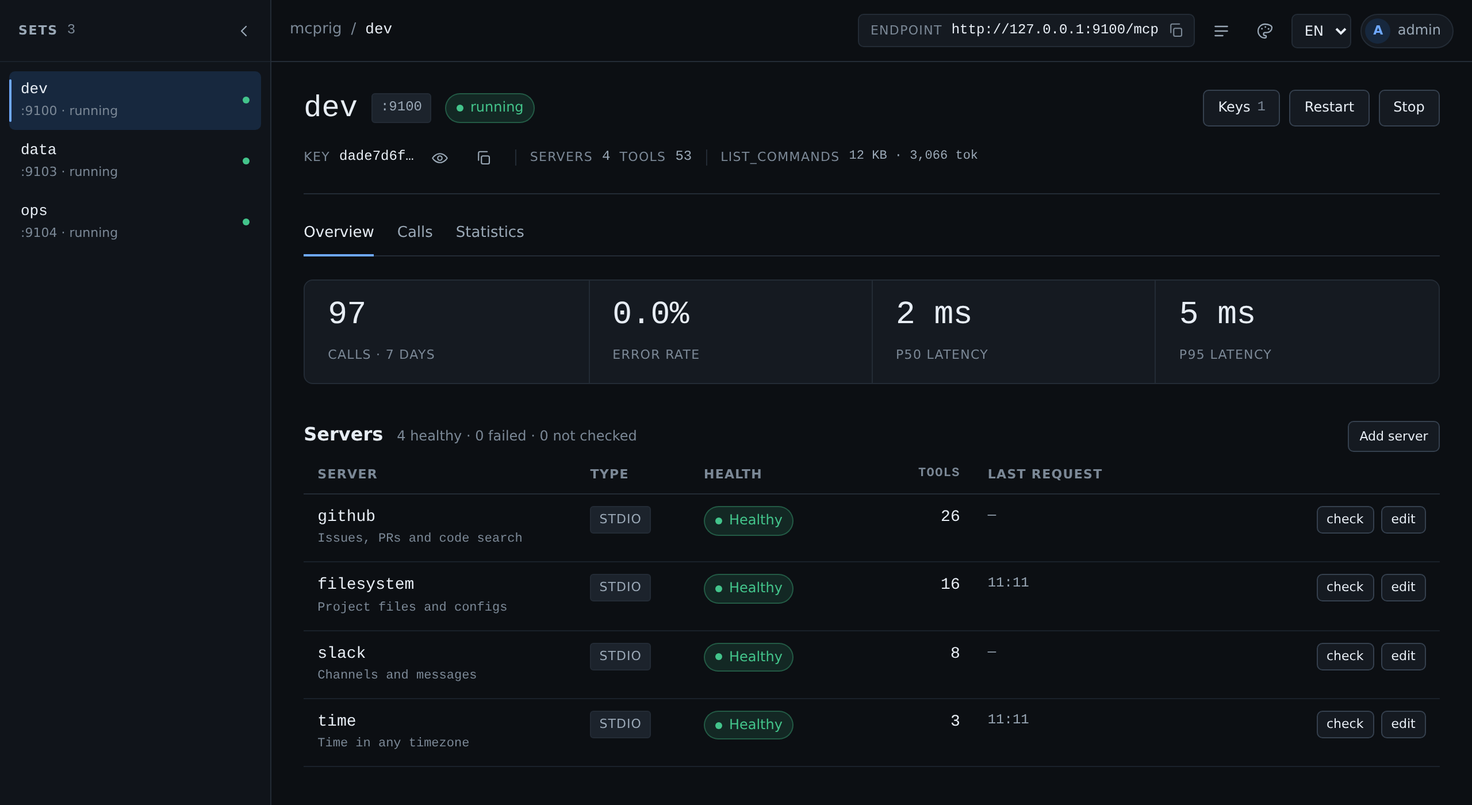
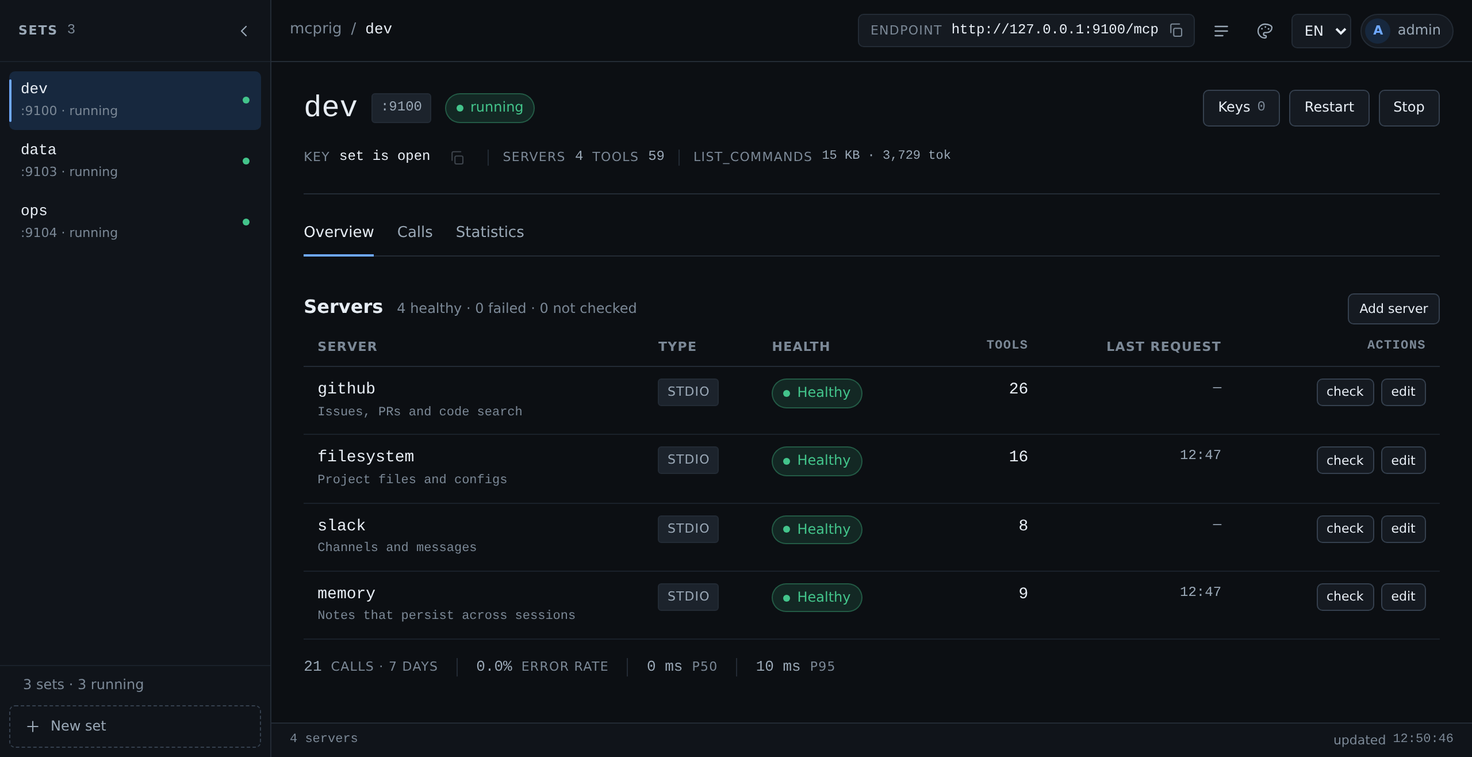
panel: обзор начинается с серверов, сводка ушла под таблицу
- вкладка Overview начинается с таблицы серверов; сводка за 7 дней
  (вызовы, ошибки, p50, p95) стала строкой-подписью под ней, вместо
  четырёх крупных KPI-плиток;
- рельс наборов заканчивается итогом `N sets · K running`;
- у колонки действий появился заголовок Actions;
- копирование ключа берёт префикс из данных, а не текст поля, так что
  в буфер больше не попадает многоточие;
- кнопка «показать ключ» убрана: панель не хранит полный ключ и обработчика
  у неё не было; иконка копии гаснет, когда ключа нет;
- кадр README переснят с живой панели (2560×1316), README и обе подписи
  не менялись.

diff --git a/web/app.js b/web/app.js
@@ -26,7 +26,6 @@
       'top.lang': 'Language',
       'top.theme': 'Color scheme',
       'top.updatedLabel': 'updated',
-      'top.runningW': 'running',
       'rail.title': 'Sets',
       'rail.open': 'Open the set list',
       'rail.collapse': 'Collapse the set list',
@@ -37,6 +36,7 @@
       'rail.port': 'port',
       'rail.create': 'create',
       'rail.item': '{name} · port {port} · {state}',
+      'rail.sum': '{n} {setsW} · {r} running',
       'common.cancel': 'cancel',
       'common.save': 'save',
       'common.close': 'close',
@@ -50,7 +50,6 @@
       'head.copied': 'copied',
       'head.copyFail': 'failed',
       'head.key': 'Key',
-      'head.keyTip': 'only the prefix is shown',
       'head.keyOpen': 'set is open',
       'head.copyKey': 'Copy key',
       'head.noKey': 'no key',
@@ -70,8 +69,8 @@
       'tabs.stats': 'Statistics',
       'kpi.calls': 'calls · 7 days',
       'kpi.errRate': 'error rate',
-      'kpi.p50': 'p50 latency',
-      'kpi.p95': 'p95 latency',
+      'kpi.p50': 'p50',
+      'kpi.p95': 'p95',
       'setSrv.title': 'Servers',
       'setSrv.add': 'Add server',
       'setSrv.note': '{h} healthy · {f} failed · {u} not checked',
@@ -237,7 +236,6 @@
       'top.lang': 'Язык',
       'top.theme': 'Цветовая схема',
       'top.updatedLabel': 'обновлено',
-      'top.runningW': 'запущено',
       'rail.title': 'Наборы',
       'rail.open': 'Открыть список наборов',
       'rail.collapse': 'Свернуть список наборов',
@@ -248,6 +246,7 @@
       'rail.port': 'порт',
       'rail.create': 'создать',
       'rail.item': '{name} · порт {port} · {state}',
+      'rail.sum': '{n} {setsW} · запущено {r}',
       'common.cancel': 'отмена',
       'common.save': 'сохранить',
       'common.close': 'закрыть',
@@ -261,7 +260,6 @@
       'head.copied': 'скопировано',
       'head.copyFail': 'не удалось',
       'head.key': 'Ключ',
-      'head.keyTip': 'показывается только префикс',
       'head.keyOpen': 'набор открыт',
       'head.copyKey': 'Скопировать ключ',
       'head.noKey': 'ключа нет',
@@ -280,9 +278,9 @@
       'tabs.calls': 'Вызовы',
       'tabs.stats': 'Статистика',
       'kpi.calls': 'вызовов · 7 дней',
-      'kpi.errRate': 'доля ошибок',
-      'kpi.p50': 'задержка p50',
-      'kpi.p95': 'задержка p95',
+      'kpi.errRate': 'ошибок',
+      'kpi.p50': 'p50',
+      'kpi.p95': 'p95',
       'setSrv.title': 'Серверы',
       'setSrv.add': 'Добавить сервер',
       'setSrv.note': 'здоровых {h} · со сбоем {f} · без проверки {u}',
@@ -988,15 +986,10 @@
     }).catch(function (e) { fail(e.message, e); });
   }
 
-  // Шапка метрик не несёт: счётчики хоста живут в статусбаре, как в макете.
+  // Шапка метрик не несёт: наборы и запущенные — в рейле, серверы реестра — в статусбаре.
   function renderChrome() {
-    var running = st.sets.filter(function (s) { return s.runtime && s.runtime.running; }).length;
     var none = st.sets.length === 0;
-    $('status-counts').textContent = [
-      fmtN(st.sets.length) + ' ' + word(st.sets.length, 'set'),
-      fmtN(st.servers.length) + ' ' + word(st.servers.length, 'server'),
-      fmtN(running) + ' ' + t('top.runningW')
-    ].join(' · ');
+    $('status-counts').textContent = fmtN(st.servers.length) + ' ' + word(st.servers.length, 'server');
     $('f-updated').textContent = clock();
     $('rail-count').textContent = fmtN(st.sets.length);
     show($('empty-state'), none);
@@ -1037,6 +1030,11 @@
           : state.cls === 'err' ? ' state-failed' : ' state-stopped');
         b.setAttribute('aria-label', t('rail.item', { name: name, port: s.port, state: state.text }));
       });
+    var running = st.sets.filter(function (s) { return s.runtime && s.runtime.running; }).length;
+    $('rail-sum').textContent = t('rail.sum', {
+      n: fmtN(st.sets.length), setsW: word(st.sets.length, 'set'), r: fmtN(running)
+    });
+    show($('rail-sum'), st.sets.length > 0);
   }
 
   function healthy(h) { return !!(h && h.healthy === true && !h.unknown); }
@@ -1245,6 +1243,12 @@
     // только префикс: токена в панели нет и быть не может
     $('key').textContent = set.keyPrefix ? set.keyPrefix + '…'
       : (set.open ? t('head.keyOpen') : t('head.noKey'));
+    // «копировать» работает только когда есть что копировать:
+    // у открытого набора в #key лежит фраза состояния, а не ключ
+    var keyBtn = $('key-copy'), hasKey = !!set.keyPrefix;
+    keyBtn.disabled = !hasKey;
+    keyBtn.dataset.i18nTitle = hasKey ? 'head.copyKey' : 'head.noKey';
+    keyBtn.title = t(keyBtn.dataset.i18nTitle);
     $('keys-count').textContent = fmtN((set.keys || []).length);
     $('meta-servers').textContent = fmtN((set.servers || []).length);
     var schema = (st.calls && st.calls.schema) || null;
@@ -2462,11 +2466,12 @@
 
   var copyTimer = 0;
   function copyText(text, btn, label) {
-    var back = label || btn.textContent;
+    var back = label || btn.innerHTML;
     var done = function (ok) {
       btn.textContent = ok ? t('head.copied') : t('head.copyFail');
       clearTimeout(copyTimer);
-      copyTimer = setTimeout(function () { btn.textContent = back; }, 1200);
+      // кнопки здесь иконочные: текст возвращается разметкой, а не строкой
+      copyTimer = setTimeout(function () { btn.innerHTML = back; }, 1200);
     };
     if (navigator.clipboard && navigator.clipboard.writeText) {
       navigator.clipboard.writeText(text).then(function () { done(true); }, function () { done(false); });
@@ -2479,10 +2484,10 @@
     copyText($('endpoint').textContent, this);
   });
 
-  // токена в панели нет: копировать можно только префикс, и это честно подписано
+  // токена в панели нет: копируется префикс, без многоточия — так его и вставляют
   $('key-copy').addEventListener('click', function () {
-    var text = $('key').textContent || '';
-    if (!text || text === '—') { return; }
+    var set = current(), text = (set && set.keyPrefix) || '';
+    if (!text) { return; }
     copyText(text, this);
   });
 

diff --git a/web/app.css b/web/app.css
@@ -178,6 +178,11 @@ html.rail-compact .rail-collapse { transform: rotate(180deg); }
 .state-failed { color: var(--err); }
 
 .rail-foot { margin-top: auto; padding: var(--sp-2); border-top: 1px solid var(--line-soft); }
+/* итог списка над «Новым набором»: рейл не обрывается пустотой после трёх строк */
+.rail-sum {
+  padding: 0 var(--sp-3); margin-bottom: var(--sp-2);
+  font-size: var(--fs-2); color: var(--text-mute);
+}
 .rail-add {
   display: flex; align-items: center; gap: var(--sp-2); width: 100%;
   padding: 9px var(--sp-3); border: 1px dashed var(--line-strong);
@@ -193,6 +198,7 @@ html.rail-compact .rail-collapse { transform: rotate(180deg); }
 html.rail-compact .rail-head { padding: 0 var(--sp-2); justify-content: center; }
 html.rail-compact .rail-title,
 html.rail-compact .rail-count,
+html.rail-compact .rail-sum,
 html.rail-compact .rail-add-txt { display: none; }
 html.rail-compact .rail-collapse { margin-left: 0; }
 html.rail-compact .rail-sets { padding: var(--sp-2) 6px; }
@@ -348,19 +354,18 @@ html.rail-compact .rail-add { justify-content: center; padding: 9px 0; }
   height: 2px; background: var(--accent);
 }
 
-/* ── KPI-полоса ─────────────────────────────────────────────────────────── */
+/* ── KPI: сводка за 7 дней — строка-подпись, не главный элемент вкладки ──── */
+/* Таблица уже закрыта своей линией: своей у сводки нет, иначе две hairline */
 .kpis {
-  display: grid; grid-template-columns: repeat(4, minmax(0, 1fr));
-  margin-top: var(--sp-5);
-  border: 1px solid var(--line); border-radius: var(--r-3); background: var(--surface);
-  overflow: hidden;
+  display: flex; flex-wrap: wrap; align-items: baseline;
+  gap: var(--sp-1) var(--sp-4);
+  margin-top: var(--sp-4);
 }
-.kpi { padding: var(--sp-4) var(--sp-5); }
-.kpi + .kpi { border-left: 1px solid var(--line); }
-.kpi-num { font: 500 clamp(20px, 2.2vw, 30px) / 1.1 var(--font-mono); letter-spacing: -.01em; }
+.kpi { display: inline-flex; align-items: baseline; gap: var(--sp-2); }
+.kpi + .kpi { padding-left: var(--sp-4); border-left: 1px solid var(--line); }
+.kpi-num { font: 500 var(--fs-3) / 1 var(--font-mono); color: var(--text-dim); }
 .kpi-num.is-muted { color: var(--text-mute); }
 .kpi-label {
-  display: block; margin-top: var(--sp-2);
   font-size: var(--fs-1); text-transform: uppercase; letter-spacing: .06em; color: var(--text-mute);
 }
 
@@ -421,6 +426,9 @@ html.rail-compact .rail-add { justify-content: center; padding: 9px 0; }
   transition: background var(--dur-1) linear, color var(--dur-1) linear;
 }
 .ghost-icon:hover { background: var(--surface-2); color: var(--text); }
+/* иконочные кнопки тоже гаснут: у ключа их две, и обе бессмысленны без ключа */
+.ghost-icon:disabled { opacity: .35; cursor: default; }
+.ghost-icon:disabled:hover { background: transparent; color: inherit; }
 .ghost-icon[aria-pressed="true"] { color: var(--accent); }
 
 /* ── таблицы: моноширинные цифры, имена переносятся, не режутся ─────────── */
@@ -764,11 +772,9 @@ body.side-open .scrim { opacity: 1; pointer-events: auto; }
   .meta-sep { display: none; }
   .set-meta { gap: var(--sp-1) var(--sp-2); }
 
-  .kpis { grid-template-columns: repeat(2, minmax(0, 1fr)); }
-  .kpi { padding: var(--sp-3); }
-  .kpi:nth-child(odd) { border-left: 0; }
-  .kpi:nth-child(n + 3) { border-top: 1px solid var(--line); }
-  .kpi-num { font-size: var(--fs-6); }
+  /* сводка — обычная строка, на узком экране просто переносится */
+  .kpis { margin-top: var(--sp-4); gap: var(--sp-2) var(--sp-3); }
+  .kpi + .kpi { padding-left: var(--sp-3); }
 
   .filters { gap: var(--sp-2); }
   .segmented { width: 100%; }
@@ -812,12 +818,22 @@ body.side-open .scrim { opacity: 1; pointer-events: auto; }
 .label-ok { color: var(--ok); }
 
 /* Колонки таблицы набора: имя забирает остаток, остальные — своя ширина,
-   иначе на пустых «—» имя утаскивает всю середину и соседи липнут к правому краю. */
+   иначе на пустых «—» имя утаскивает всю середину и соседи липнут к правому краю.
+   Действия — по содержимому: широкая колонка отрывала кнопки от «последнего вызова». */
 #set-srv-table { table-layout: fixed; }
 #set-srv-table th { white-space: normal; }
-#set-srv-table th:nth-child(1) { width: 24%; }
+#set-srv-table th:nth-child(1) { width: 30%; }
 #set-srv-table th:nth-child(2) { width: 10%; }
 #set-srv-table th:nth-child(3) { width: 14%; }
 #set-srv-table th:nth-child(4) { width: 11%; }
-#set-srv-table th:nth-child(5) { width: 17%; }
-#set-srv-table th:nth-child(6) { width: 24%; text-align: right; }
+#set-srv-table th:nth-child(5) { width: 17%; text-align: right; }
+#set-srv-table td:nth-child(5) { text-align: right; }
+/* Действия — узкая колонка у правого края: «check/edit» стоят рядом с последним
+   вызовом, а не висят в пустой полосе. По-русски «проверить/изменить» шире,
+   поэтому на узком экране колонке отдаётся четверть ширины таблицы. */
+#set-srv-table th:nth-child(6) { width: 18%; text-align: right; }
+@media (max-width: 1100px) {
+  #set-srv-table th:nth-child(1) { width: 23%; }
+  #set-srv-table th:nth-child(6) { width: 26%; }
+  #set-srv-table .cell-actions .btn { padding-inline: 8px; }
+}

diff --git a/web/index.html b/web/index.html
@@ -27,6 +27,7 @@
     <nav class="rail-sets" id="rail-sets" aria-label="Set list" data-i18n-aria="rail.title"></nav>
     <p class="rail-empty" id="rail-empty" hidden data-i18n="rail.empty">no sets</p>
     <div class="rail-foot">
+      <p class="rail-sum" id="rail-sum" hidden></p>
       <button class="rail-add" type="button" id="add-toggle">
         <svg class="od-icon ico-15" viewBox="0 0 24 24" fill="none" stroke="currentColor" stroke-width="1.7" stroke-linecap="round" aria-hidden="true"><path d="M12 5v14M5 12h14"/></svg>
         <span class="rail-add-txt" data-i18n="rail.add">New set</span>
@@ -139,9 +140,6 @@
         <div class="set-meta">
           <span class="meta-label" data-i18n="head.key">Key</span>
           <code class="mono key-val" id="key">—</code>
-          <button class="ghost-icon" type="button" id="key-open" aria-pressed="false" aria-label="Reveal key" data-i18n-title="head.keyTip" data-i18n-aria="head.keyOpen">
-            <svg class="od-icon ico-15" viewBox="0 0 24 24" fill="none" stroke="currentColor" stroke-width="1.7" stroke-linecap="round" stroke-linejoin="round" aria-hidden="true"><path d="M1.8 12S5.5 5.8 12 5.8 22.2 12 22.2 12 18.5 18.2 12 18.2 1.8 12 1.8 12Z"/><circle cx="12" cy="12" r="3"/></svg>
-          </button>
           <button class="ghost-icon" type="button" id="key-copy" aria-label="Copy key" data-i18n-title="head.copyKey" data-i18n-aria="head.copyKey">
             <svg class="od-icon ico-15" viewBox="0 0 24 24" fill="none" stroke="currentColor" stroke-width="1.7" stroke-linecap="round" stroke-linejoin="round" aria-hidden="true"><rect x="9" y="9" width="11" height="11" rx="2"/><path d="M5 15V5a2 2 0 0 1 2-2h10"/></svg>
           </button>
@@ -164,25 +162,6 @@
       </div>
 
       <section id="tab-overview" role="tabpanel" aria-labelledby="tabbtn-overview" tabindex="0">
-        <div class="kpis" id="kpis">
-          <div class="kpi od-stat">
-            <span class="kpi-num mono" id="k-calls">—</span>
-            <span class="kpi-label" data-i18n="kpi.calls">calls</span>
-          </div>
-          <div class="kpi od-stat">
-            <span class="kpi-num mono" id="k-err">—</span>
-            <span class="kpi-label" data-i18n="kpi.errRate">error rate</span>
-          </div>
-          <div class="kpi od-stat">
-            <span class="kpi-num mono" id="k-p50">—</span>
-            <span class="kpi-label" data-i18n="kpi.p50">p50 latency</span>
-          </div>
-          <div class="kpi od-stat">
-            <span class="kpi-num mono" id="k-p95">—</span>
-            <span class="kpi-label" data-i18n="kpi.p95">p95 latency</span>
-          </div>
-        </div>
-
         <section class="block" id="set-srv-block" aria-labelledby="set-srv-h">
           <div class="block-head">
             <h2 id="set-srv-h" data-i18n="setSrv.title">Servers</h2>
@@ -197,7 +176,7 @@
                 <th scope="col" data-i18n="setSrv.thState">State</th>
                 <th scope="col" class="num" data-i18n="setSrv.thTools">Tools</th>
                 <th scope="col" class="hide-sm" data-i18n="setSrv.thLast">Last request</th>
-                <th scope="col" class="num"><span class="sr" data-i18n="setSrv.thAct">Actions</span></th>
+                <th scope="col" class="num" data-i18n="setSrv.thAct">Actions</th>
               </tr>
             </thead>
             <tbody id="set-srv-body"></tbody>
@@ -207,6 +186,26 @@
             <p class="empty-text" data-i18n="setSrv.emptyText">Servers live in the host registry; attach one to give this set tools to serve.</p>
           </div>
         </section>
+
+        <!-- сводка за 7 дней: второстепенная, строкой под таблицей серверов -->
+        <div class="kpis" id="kpis">
+          <div class="kpi od-stat">
+            <span class="kpi-num mono" id="k-calls">—</span>
+            <span class="kpi-label" data-i18n="kpi.calls">calls</span>
+          </div>
+          <div class="kpi od-stat">
+            <span class="kpi-num mono" id="k-err">—</span>
+            <span class="kpi-label" data-i18n="kpi.errRate">error rate</span>
+          </div>
+          <div class="kpi od-stat">
+            <span class="kpi-num mono" id="k-p50">—</span>
+            <span class="kpi-label" data-i18n="kpi.p50">p50</span>
+          </div>
+          <div class="kpi od-stat">
+            <span class="kpi-num mono" id="k-p95">—</span>
+            <span class="kpi-label" data-i18n="kpi.p95">p95</span>
+          </div>
+        </div>
       </section>
 
       <section id="tab-calls" role="tabpanel" aria-labelledby="tabbtn-calls" tabindex="0" hidden>

diff --git a/docs/ru/panel.md b/docs/ru/panel.md
@@ -20,7 +20,7 @@
 | левый рельс | все наборы как имя плюс `:порт · состояние` и точка состояния; **+ Новый набор** |
 | шапка набора | имя, чип порта, бейдж состояния, **Ключи**, **Перезапустить**, **Запустить/Остановить**, префикс ключа и сразу под ним — число серверов и инструментов плюс вес `list_commands` (объём, токены) |
 | вкладки | **Обзор**, **Вызовы**, **Статистика** |
-| KPI | вызовы, доля ошибок, p50 и p95 выбранного набора за последние 7 дней |
+| KPI | вызовы, доля ошибок, p50 и p95 выбранного набора за последние 7 дней — строкой-сводкой под таблицей серверов |
 | серверы набора | имя со второй строкой (ошибка демона, изоляция, описание), тип, здоровье, число инструментов, последний вызов, **Проверить** и **Изменить** |
 | таблица вызовов | время, сервер, инструмент, клиент, миллисекунды, статус; поиск и **только ошибки**. Сюда попадают и мета-инструменты (`list_servers`, `list_commands`, `describe_commands`) — с сервером `mcprig`; у провала рядом со статусом видна причина, полный текст — во всплывающей подсказке |
 | ящик деталей | реестр серверов хоста, переменные и лог набора; открывается из шапки, на телефоне занимает всю ширину |

diff --git a/design/ui/note.md b/design/ui/note.md
@@ -8,7 +8,7 @@
 | --- | --- |
 | `index.html` | главный экран: топбар, рейл наборов, KPI, таблица наборов, таблица вызовов, правая колонка, статус-строка |
 | `states.html` | три состояния: пусто, набор остановлен, плотная таблица 40 строк |
-| `panel.png` | скриншот `index.html` при 1440×1000 |
+| `panel.png` | скриншот настоящей панели (`web/`), тёмная тема, 1280×658 при ×2; макет, снятый при 1440×1000, — `archive/panel-0.4.x.png` |
 | `states.png` | скриншот `states.html` |
 
 Что взято в реализацию этапа 5:
@@ -16,7 +16,7 @@
 - структура правой колонки — серверы набора с транспортом и последней ошибкой, переменные с
   источником (`openbao`/`file`/`env`), хвост лога;
 - статус-строка с версией, размером бинаря, RSS, uptime и версией протокола;
-- ключ показывается только префиксом, полное значение — по кнопке «показать» (в движке: значение
-  отдаётся один раз при создании ключа, потом только префикс).
+- ключ показывается только префиксом (в движке: значение отдаётся один раз при создании ключа,
+  потом только префикс; кнопки «показать» в панели нет — в макете она была).
 
 Что макет не решает: реальные данные, поведение фильтров и сортировок, мобильная ширина.

diff --git a/CHANGELOG.ru.md b/CHANGELOG.ru.md
@@ -12,6 +12,13 @@
 
 ### Изменено
 
+- Вкладка **Обзор** в панели теперь начинается с серверов набора: сводка за
+  семь дней (вызовы, доля ошибок, p50, p95) ушла под таблицу серверов и стала
+  строкой-подписью, рельс наборов заканчивается строкой `N наборов · K
+  запущено`, у колонки действий появился заголовок `Действия`. Кнопка
+  **Скопировать ключ** недоступна, пока набор открыт и префикса ключа нет;
+  копирует она сам префикс, а не показанное в панели `префикс…`, а
+  неработавшая кнопка **Показать ключ** убрана.
 - Документация перестроена: `docs/en/index.md` и `docs/ru/index.md` — точки
   входа, на каждой продуктовой странице есть переключатель языка и блок
   «См. также», а планы, решения, аудиты, предложения и TS-контракт переехали в

diff --git a/docs/en/panel.md b/docs/en/panel.md
@@ -20,7 +20,7 @@ CSP: no inline scripts or styles.
 | left rail | all sets as name plus `:port · state` and a state dot; **+ New set** |
 | set head | name, port chip, state badge, **Keys**, **Restart**, **Start/Stop**, the key prefix and — right under it — the number of servers and tools plus the `list_commands` weight (bytes, tokens) |
 | tabs | **Overview**, **Calls**, **Statistics** |
-| KPIs | calls, error rate, p50 and p95 of the selected set over the last 7 days |
+| KPIs | calls, error rate, p50 and p95 of the selected set over the last 7 days, as a one-line summary under the servers table |
 | servers of the set | name with a second line (daemon error, isolation, description), type, health, tool count, last request, **Check** and **Edit** |
 | calls table | time, server, tool, client, milliseconds, status; search box and **errors only**. Meta-tools (`list_servers`, `list_commands`, `describe_commands`) appear here too, as server `mcprig`; a failure shows its reason next to the status, the full text in a tooltip |
 | details drawer | host registry, variables and the set log; opens from the header and covers the panel width on a phone |

diff --git a/CHANGELOG.md b/CHANGELOG.md
@@ -10,6 +10,12 @@ repository the project is built in.
 
 ### Changed
 
+- The panel's **Overview** tab now leads with the set's servers: the seven-day
+  summary (calls, error rate, p50, p95) moved below the servers table and reads
+  as a one-line caption, the set rail ends with `N sets · K running`, and the
+  action column has an `Actions` header. **Copy key** is disabled while the set
+  is open and has no key prefix, it copies the bare prefix rather than the
+  `prefix…` shown in the panel, and the unused **Reveal key** button is gone.
 - Documentation is restructured: `docs/en/index.md` and `docs/ru/index.md` are
   the entry points, every product page carries a language switch and a "See
   also" block, and plans, decisions, audits, proposals and the TS contract moved
